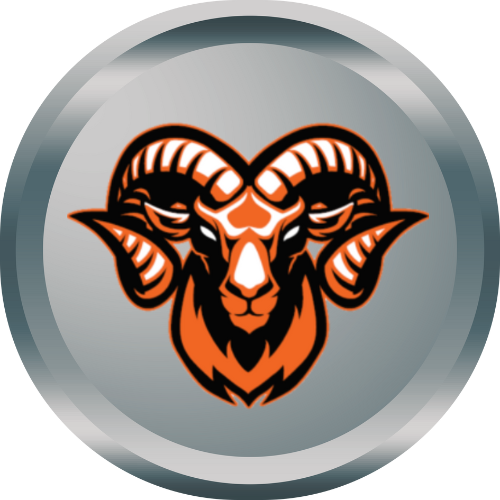
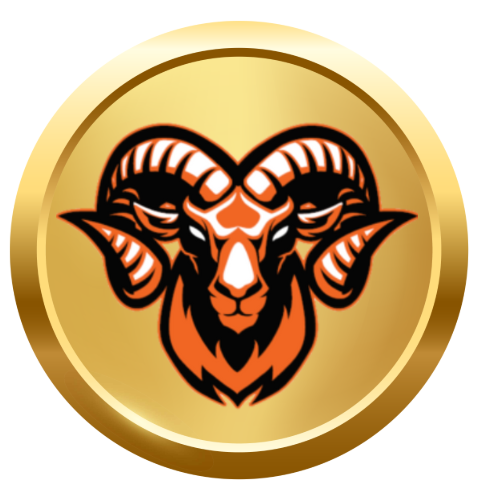
Correct sponsorship assets and apply small cleanup
Sponsorship:
- sponsor_tiers.yml: add Silver Sponsor image path
- corporate-sponsorship.md: drop hero/intro image embeds
- images: replace gold/platinum, remove hero, rename intro -> silver

Cleanup:
- support_actions.yml: add Flocking and Buy Merch actions; retarget Volunteer
- home-hero.html: fix News and Events link capitalization; open links in new tab
- rail.html: simplify TOC rendering logic
- marching-band.md: link to marching band events anchor

diff --git a/_includes/home-hero.html b/_includes/home-hero.html
@@ -10,14 +10,14 @@ _data/support_actions.yml so the sign-up link stays defined in one place.
   <p class="home-hero__lede">
     Want to know what's coming up soon? Find FORM member meetings and other
     Music Department &amp; Theatre Program event dates in our
-    <a href="{{ '/news-and-events/' | relative_url }}">NEWS and EVENTS</a> tab.
+    <a href="{{ '/news-and-events/' | relative_url }}">News and Events</a> tab.
   </p>
   <p class="home-hero__shout">Get ready for an exciting year!</p>
   {%- assign actions = site.data.support_actions %}
   <div class="home-hero__actions">
     {%- for action in actions %}
       <div class="action-with-tooltip">
-        <a class="button" href="{{ action.link_url }}">{{ action.text }}</a>
+        <a class="button" href="{{ action.link_url }}" target="_blank" rel="noopener">{{ action.text }}</a>
         <div class="tooltip">{{ action.description | markdownify }}</div>
       </div>
     {%- endfor %}

diff --git a/_includes/rail.html b/_includes/rail.html
@@ -24,14 +24,12 @@ Pass the rendered body in as `html`.
   {%- endif -%}
 {%- endfor -%}
 <aside class="page-rail">
+  {%- if toc != '' %}
   <nav class="page-rail__toc" aria-label="On this page">
     <p class="page-rail__title">On this page</p>
-    {%- if toc != '' %}
     <ul>{{ toc }}</ul>
-    {%- else %}
-    <p class="page-rail__empty">A single short read.</p>
-    {%- endif %}
   </nav>
+  {%- endif %}
   <div class="page-rail__cta">
     <p class="page-rail__title">Get involved</p>
     <p class="page-rail__note">Help keep music strong for every Rockville student.</p>

diff --git a/corporate-sponsorship.md b/corporate-sponsorship.md
@@ -4,8 +4,6 @@ title: Corporate Sponsorship
 permalink: /corporate-sponsorship/
 ---
 
-![Rockville music students perform]({{ '/assets/images/sponsorship-hero.png' | relative_url }})
-
 ## We need your help!
 
 Our school takes great pride in its vibrant and talented music program, which enriches the lives of students and strengthens our community. Over 200 students participate in our choirs, bands, orchestras, and marching band. We need your help to ensure these students continue to thrive.
@@ -19,8 +17,6 @@ Your sponsorship will directly benefit the music department at Rockville High Sc
 This is a wonderful opportunity to grow your business while enriching your community — and to support our students' dreams in the process. Your generosity would make a lasting difference in the lives of our students, our music program, and our community.
 
 Sponsorship plans are for one school year and subsequent summer, September through September of the following year.
-
-![Sponsorship benefits at Rockville High School]({{ '/assets/images/sponsorship-intro.png' | relative_url }})
 
 {% include sponsor-tiers.html %}
 

diff --git a/marching-band.md b/marching-band.md
@@ -10,6 +10,6 @@ The 2026-27 Marching Band Season has begun!
 
 The earth-quakin', heart-breakin', booty-shakin', music-makin', legendary ROCKVILLE RAMS MARCHING BAND is taking to the field once more!
 
-[Click here]({{ '/news-and-events/' | relative_url }}) to see them in action!
+[Click here]({{ '/news-and-events/#events-marching_band' | relative_url }}) to see when and where you can see them in action!
 
 Interested in becoming a Corporate Sponsor &amp; having your company's name announced before the Marching Band performs, your logo on our banner, and much more? [Click here!]({{ '/news-and-events/' | relative_url }})
